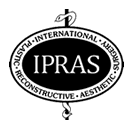
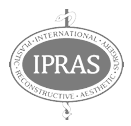
Update footer images and styles, and modify procedure cards

diff --git a/teens.html b/teens.html
@@ -113,6 +113,7 @@
             </div>
         </div>
         <!-- Fin preloader -->
+
         <div class="para_ellas">
             <div class="banner-container">
                 <div class="banner">
@@ -122,23 +123,37 @@
                             <h2>Línea de prevención</h2>
                             <h3>Lorem ipsum dolor</h3>
                             <p>Lorem ipsum dolor sit amet, consectetur adipiscing elit, sed do eiusmod <br> tempor incididunt ut labore et dolore magna aliqua.</p>
-                            <a href="" class="btn primary">Contáctanos</a>
-                        </div>
-                    </div>
-                    <svg width="0" height="0" xmlns="http://www.w3.org/2000/svg">
-                        <defs>
-                            <clipPath id="myClip">
-                                <path
-                                    d="M1011.81 833.788C563.255 881.23 152.408 871.534 -2.73096 826.871L2.90186 0.662109L1952.48 13.9537L1946.59 877.674C1668.39 800.27 1451.79 787.251 1011.81 833.788Z" />
-                            </clipPath>
-                        </defs>
-                    </svg>
+                            <a href="" class="btn primary">Contáctanos<svg width="20" height="21"
+                                viewBox="0 0 20 21" fill="none" xmlns="http://www.w3.org/2000/svg">
+                                <path fill-rule="evenodd" clip-rule="evenodd"
+                                    d="M10 3.38379C6.20304 3.38379 3.125 6.46183 3.125 10.2588C3.125 14.0557 6.20304 17.1338 10 17.1338C13.797 17.1338 16.875 14.0557 16.875 10.2588C16.875 6.46183 13.797 3.38379 10 3.38379ZM1.875 10.2588C1.875 5.77148 5.51269 2.13379 10 2.13379C14.4873 2.13379 18.125 5.77148 18.125 10.2588C18.125 14.7461 14.4873 18.3838 10 18.3838C5.51269 18.3838 1.875 14.7461 1.875 10.2588Z"
+                                    fill="currentColor" />
+                                <path fill-rule="evenodd" clip-rule="evenodd"
+                                    d="M10.0346 7.16841C10.2787 6.92433 10.6744 6.92433 10.9185 7.16841L13.5669 9.81685C13.811 10.0609 13.811 10.4567 13.5669 10.7007L10.9185 13.3492C10.6744 13.5932 10.2787 13.5932 10.0346 13.3492C9.79054 13.1051 9.79054 12.7094 10.0346 12.4653L12.2411 10.2588L10.0346 8.05229C9.79054 7.80822 9.79054 7.41249 10.0346 7.16841Z"
+                                    fill="currentColor" />
+                                <path fill-rule="evenodd" clip-rule="evenodd"
+                                    d="M6.25 10.2588C6.25 9.91361 6.52982 9.63379 6.875 9.63379H13.125C13.4702 9.63379 13.75 9.91361 13.75 10.2588C13.75 10.604 13.4702 10.8838 13.125 10.8838H6.875C6.52982 10.8838 6.25 10.604 6.25 10.2588Z"
+                                    fill="currentColor" />
+                                </svg>                                
+                            </a>
+                        </div>     
+                    </div>        
                 </div>
-                <svg width="100%" height="100%" xmlns="http://www.w3.org/2000/svg">
+                <!-- <svg width="100%" height="100%" xmlns="http://www.w3.org/2000/svg">
                     <path
                         d="M1011.81 833.788C563.255 881.23 152.408 871.534 -2.73096 826.871L2.90186 0.662109L1952.48 13.9537L1946.59 877.674C1668.39 800.27 1451.79 787.251 1011.81 833.788Z"
                         fill="#5EBBC080" />
-                </svg>
+                </svg> -->
+                    <svg version="1.1" id="Capa_1" xmlns="http://www.w3.org/2000/svg" xmlns:xlink="http://www.w3.org/1999/xlink" x="0px" y="0px"
+                                        viewBox="0 0 1949.3 102.5" style="enable-background:new 0 0 1949.3 102.5;" xml:space="preserve">
+                                    <style type="text/css">
+                                        .st0{fill:#FFFFFF;}
+                                        .st1{fill:#335C82;}
+                                    </style>
+                                    <path class="st0" d="M1014.5,58.6C566,106.1,155.1,96.4,0,51.7v50.8h1949.3C1671.1,25.1,1454.5,12.1,1014.5,58.6z"/>
+                                    <path class="st1" d="M1011.6,37.8C565.9,85,157.4,89.4,0,45.6l0,6.1c155.1,44.7,566,54.4,1014.5,6.9c440-46.5,656.6-33.5,934.8,43.9
+                                        V63.4C1671.1-14,1451.6-8.7,1011.6,37.8z"/>
+                                    </svg>
             </div>
             <br><br>
             
@@ -169,7 +184,8 @@
                                     <path fill-rule="evenodd" clip-rule="evenodd"
                                         d="M6.25 10.2588C6.25 9.91361 6.52982 9.63379 6.875 9.63379H13.125C13.4702 9.63379 13.75 9.91361 13.75 10.2588C13.75 10.604 13.4702 10.8838 13.125 10.8838H6.875C6.52982 10.8838 6.25 10.604 6.25 10.2588Z"
                                         fill="currentColor" />
-                                </svg></a>
+                                </svg>
+                            </a>
                         </div>
                     </div>
                     <div class="favoritos__2">

diff --git a/index.html b/index.html
@@ -113,11 +113,12 @@
             </div>
         </div>
         <!-- /Preloader -->
+
         <section class="splide" aria-label="Splide Basic HTML Example">
             <div class="splide__arrows">
                 <button class="splide__arrow splide__arrow--prev">
                     <svg width="84" height="84" viewBox="0 0 84 84" fill="none" xmlns="http://www.w3.org/2000/svg">
-                        <rect x="1" y="1" width="82" height="82" rx="41" stroke="#335C82" stroke-width="2" />
+                        <rect x="1" y="1" width="82" height="82" rx="41" stroke="#335C82" stroke-width="3" />
                         <path
                             d="M21 42C20.4477 42 20 42.4477 20 43C20 43.5523 20.4477 44 21 44V42ZM63.2071 43.7071C63.5976 43.3166 63.5976 42.6834 63.2071 42.2929L56.8431 35.9289C56.4526 35.5384 55.8195 35.5384 55.4289 35.9289C55.0384 36.3195 55.0384 36.9526 55.4289 37.3431L61.0858 43L55.4289 48.6569C55.0384 49.0474 55.0384 49.6805 55.4289 50.0711C55.8195 50.4616 56.4526 50.4616 56.8431 50.0711L63.2071 43.7071ZM21 44H62.5V42H21V44Z"
                             fill="#335C82" />
@@ -126,7 +127,7 @@
                 </button>
                 <button class="splide__arrow splide__arrow--next">
                     <svg width="84" height="84" viewBox="0 0 84 84" fill="none" xmlns="http://www.w3.org/2000/svg">
-                        <rect x="1" y="1" width="82" height="82" rx="41" stroke="#335C82" stroke-width="2" />
+                        <rect x="1" y="1" width="82" height="82" rx="41" stroke="#335C82" stroke-width="3" />
                         <path
                             d="M21 42C20.4477 42 20 42.4477 20 43C20 43.5523 20.4477 44 21 44V42ZM63.2071 43.7071C63.5976 43.3166 63.5976 42.6834 63.2071 42.2929L56.8431 35.9289C56.4526 35.5384 55.8195 35.5384 55.4289 35.9289C55.0384 36.3195 55.0384 36.9526 55.4289 37.3431L61.0858 43L55.4289 48.6569C55.0384 49.0474 55.0384 49.6805 55.4289 50.0711C55.8195 50.4616 56.4526 50.4616 56.8431 50.0711L63.2071 43.7071ZM21 44H62.5V42H21V44Z"
                             fill="#335C82" />
@@ -143,20 +144,19 @@
                                     <div class="txt">
                                         <h2>Lipo 3D</h2>
                                         <h3>Una combinación inigualable</h3>
-                                        <p>Bodytite + Lipo + Morpheus, elimina grasa localizada y mejora la flacidez con
-                                            la mejor tecnología.</p>
+                                        <p>Bodytite + Lipo + Morpheus, elimina grasa localizada y mejora la flacidez con <br> la mejor tecnología.</p>
                                         <a href="" class="btn primary">Agenda tu cita</a>
                                     </div>
 
                                 </div>
-                                <svg width="0" height="0" xmlns="http://www.w3.org/2000/svg">
+                                <!-- <svg width="0" height="0" xmlns="http://www.w3.org/2000/svg">
                                     <defs>
                                         <clipPath id="myClip">
                                             <path
                                                 d="M1011.81 833.788C563.255 881.23 152.408 871.534 -2.73096 826.871L2.90186 0.662109L1952.48 13.9537L1946.59 877.674C1668.39 800.27 1451.79 787.251 1011.81 833.788Z" />
                                         </clipPath>
                                     </defs>
-                                </svg>
+                                </svg> -->
                             </div>
                             <svg width="100%" height="100%" xmlns="http://www.w3.org/2000/svg">
                                 <path
@@ -171,16 +171,10 @@
                                 <img src="img/bannerImg.jpg" alt="banner">
                                 <div class="container">
                                     <div class="txt">
-                                        <h2>Equipo humano</h2>
-                                        <p>Contamos con un equipo talentoso, humano y comprometido. Todas nuestras
-                                            enfermeras y
-                                            terapeutas
-                                            son
-                                            especializadas y certificadas en el manejo de terapias estéticas y
-                                            postoperatorias.</p>
+                                        <h2>Equipo<br>humano</h2>
+                                        <p>Contamos con un equipo talentoso, humano y comprometido. Todas<br> nuestras enfermeras y terapeutas son especializadas y certificadas en el<br> manejo de terapias estéticas y postoperatorias.</p>
                                         <a href="" class="btn primary">Contáctanos</a>
                                     </div>
-
                                 </div>
                                 <svg width="0" height="0" xmlns="http://www.w3.org/2000/svg">
                                     <defs>

diff --git a/para-ellos.html b/para-ellos.html
@@ -223,61 +223,61 @@
       <div class="procedimiento container">
         <h3 class="bold">Conoce los procedimientos preventivos </h3>
         <div class="container procedimientos">
-          <div class="procedimientos__opc">
+          <div class="procedimientos__opce">
             <a href="">
               <h4>PB Serum</h4>
               <p>Enzimas recombinantes</p>
             </a>
           </div>
-          <div class="procedimientos__opc">
+          <div class="procedimientos__opce">
             <a href="">
               <h4>PB Serum</h4>
               <p>Enzimas recombinantes</p>
             </a>
           </div>
-          <div class="procedimientos__opc">
+          <div class="procedimientos__opce">
             <a href="">
               <h4>PB Serum</h4>
               <p>Enzimas recombinantes</p>
             </a>
           </div>
-          <div class="procedimientos__opc">
+          <div class="procedimientos__opce">
             <a href="">
               <h4>PB Serum</h4>
               <p>Enzimas recombinantes</p>
             </a>
           </div>
-          <div class="procedimientos__opc">
+          <div class="procedimientos__opce">
             <a href="">
               <h4>PB Serum</h4>
               <p>Enzimas recombinantes</p>
             </a>
           </div>
-          <div class="procedimientos__opc">
+          <div class="procedimientos__opce">
             <a href="">
               <h4>PB Serum</h4>
               <p>Enzimas recombinantes</p>
             </a>
           </div>
-          <div class="procedimientos__opc">
+          <div class="procedimientos__opce">
             <a href="">
               <h4>PB Serum</h4>
               <p>Enzimas recombinantes</p>
             </a>
           </div>
-          <div class="procedimientos__opc">
+          <div class="procedimientos__opce">
             <a href="">
               <h4>PB Serum</h4>
               <p>Enzimas recombinantes</p>
             </a>
           </div>
-          <div class="procedimientos__opc">
+          <div class="procedimientos__opce">
             <a href="">
               <h4>PB Serum</h4>
               <p>Enzimas recombinantes</p>
             </a>
           </div>
-          <div class="procedimientos__opc">
+          <div class="procedimientos__opce">
             <a href="">
               <h4>PB Serum</h4>
               <p>Enzimas recombinantes</p>

diff --git a/scss/pages/para-ellos.scss b/scss/pages/para-ellos.scss
@@ -25,7 +25,7 @@
 
 
 .procedimiento {
-  margin: 50px auto;
+  margin: 50px auto 0 auto;
   .bold {
     color: #32495e;
     margin-bottom: 30px;
@@ -34,23 +34,13 @@
     display: grid;
     grid-template-columns: repeat(2, 1fr);
     gap: 20px 50px;
-    &__opc {
+    &__opce {
       max-width: 617px;
       max-height: 206px;
-      background-color: #32495e;
+      background-color: #32495E;
       border-radius: 15px;
+      transition: all 0.6s cubic-bezier(0.25, 1, 0.5, 1);
 
-      &:hover {
-        border: 3px solid #335C82;
-      }
-    
-    // &:hover {
-    //   background: #213445;
-    //   color: #fff;
-    //   border: 2px solid #213445;
-    //   transform: scale(1.08);
-    //   transition: transform 0.5s;
-    // }
       h4 {
         color: #fff;
         margin-top: 45px;
@@ -60,7 +50,11 @@
         color: #fff;
         margin-bottom: 45px;
         padding-left: 30px;
-      }
+      }                  
+    }
+    &__opce:hover {
+      border: 3px solid #32495E;
+      background: #213445;
     }
   }
 }

diff --git a/scss/pages/para_ellas.scss b/scss/pages/para_ellas.scss
@@ -13,7 +13,7 @@
       }
       .btn.primary {
         margin-bottom: 20px;
-        background-color: #209ba1;
+        background-color: #5ebbc0;
       }
     }
   }
@@ -46,7 +46,7 @@
         height: 450px;
       }
       small {
-        margin-bottom: 30px;
+        margin-bottom: 67px;
       }
     }
     .procedimiento-card:hover {

diff --git a/scss/pages/procedimientos.scss b/scss/pages/procedimientos.scss
@@ -66,7 +66,6 @@
 
     &__2 {
       overflow: hidden;
-      margin-left: 90px;
       .splide__arrow {
         top: 60%;
         &--prev {
@@ -94,7 +93,6 @@
     margin: 50px 0;
     position: relative;
     overflow: hidden;
-    transition: transform 0.2s;
     height: 100%;
 
     &:hover {
